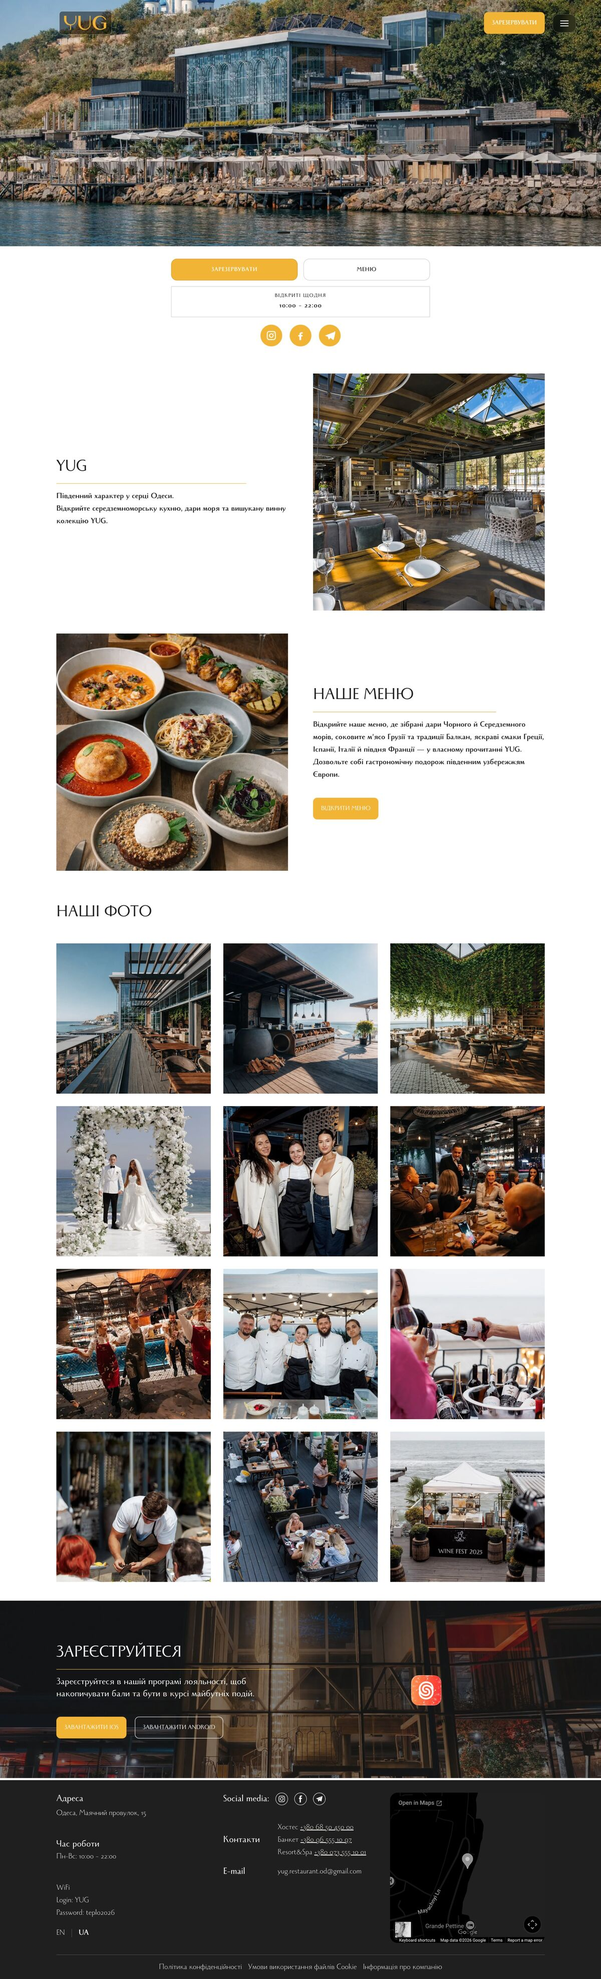
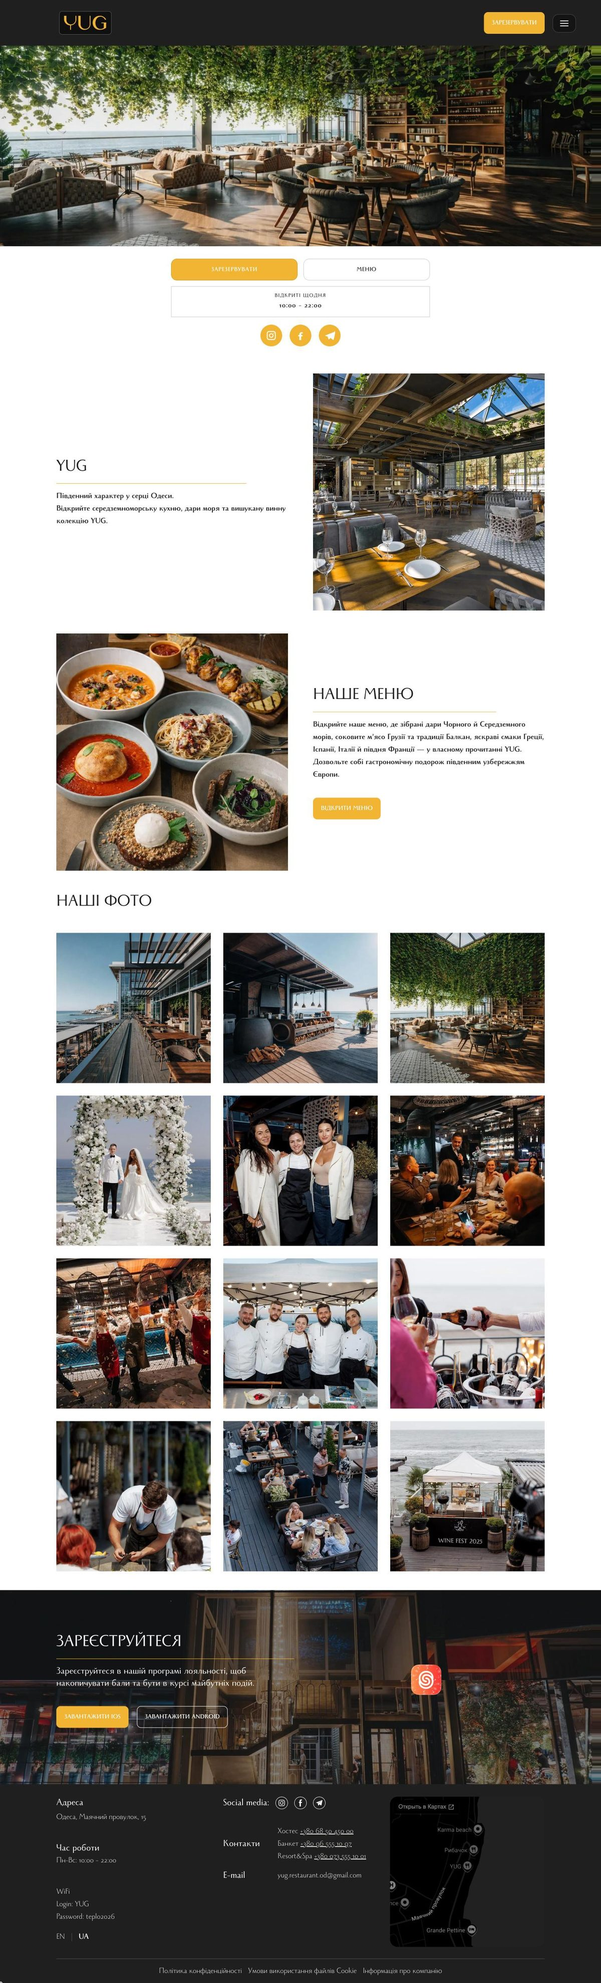
Showcase: YUG replaces DenimTrade, add Pikasso; faster hero (lower res, 30fps cap). Trigger deploy
Claude-Session: https://claude.ai/code/session_01J3C4phjuzzuodwm9RMiN1y

diff --git a/site/index.html b/site/index.html
@@ -44,7 +44,7 @@
     <link rel="preconnect" href="https://fonts.gstatic.com" crossorigin />
     <link href="https://fonts.googleapis.com/css2?family=Inter:wght@400;500;600;700;800&family=Bricolage+Grotesque:wght@500;600;700;800&family=IBM+Plex+Mono:wght@400;500;600;700&display=swap" rel="stylesheet" />
 
-    <link rel="stylesheet" href="/style.css?v=1793808271" />
+    <link rel="stylesheet" href="/style.css?v=1793810000" />
 
     <script type="application/ld+json">
     {
@@ -218,7 +218,7 @@
       <section class="lm" aria-label="Нам довіряють · кому ми робили сайти"><div class="lm__label">Нам довіряють · кому ми робили сайти</div><div class="lm__viewport"><div class="lm__track"><span class="lm-item">Odyah</span><span class="lm-item">Ambitna</span><span class="lm-item">Denim Trade</span><span class="lm-item">Sushi Opole</span><span class="lm-item">YUG</span><span class="lm-item">PsySoul</span><span class="lm-item">Personality First</span><span class="lm-item">Shargetech</span><span class="lm-item">Factory HOT</span><span class="lm-item">MHRTB</span><span class="lm-item">Ever-Breeze</span><span class="lm-item">AimGear</span><span class="lm-item">New Hope</span><span class="lm-item">Dr. Levina</span><span class="lm-item">BRACE</span><span class="lm-item">Gonchar Beauty</span><span class="lm-item">Pikasso</span><span class="lm-item">Autoservis Vesmír</span><span class="lm-item" aria-hidden="true">Odyah</span><span class="lm-item" aria-hidden="true">Ambitna</span><span class="lm-item" aria-hidden="true">Denim Trade</span><span class="lm-item" aria-hidden="true">Sushi Opole</span><span class="lm-item" aria-hidden="true">YUG</span><span class="lm-item" aria-hidden="true">PsySoul</span><span class="lm-item" aria-hidden="true">Personality First</span><span class="lm-item" aria-hidden="true">Shargetech</span><span class="lm-item" aria-hidden="true">Factory HOT</span><span class="lm-item" aria-hidden="true">MHRTB</span><span class="lm-item" aria-hidden="true">Ever-Breeze</span><span class="lm-item" aria-hidden="true">AimGear</span><span class="lm-item" aria-hidden="true">New Hope</span><span class="lm-item" aria-hidden="true">Dr. Levina</span><span class="lm-item" aria-hidden="true">BRACE</span><span class="lm-item" aria-hidden="true">Gonchar Beauty</span><span class="lm-item" aria-hidden="true">Pikasso</span><span class="lm-item" aria-hidden="true">Autoservis Vesmír</span></div></div></section>
 
       <section class="section sc-sec" aria-label="Наші роботи"><div class="container"><div class="hc-head"><div><div class="eyebrow">Портфоліо</div><h2>Наші проєкти</h2></div><a class="hc-all" href="/cases.html">Усі кейси →</a></div>
-<div class="sc" id="sc"><div class="sc-list"><button class="sc-item is-on" type="button" data-i="0"><i>01</i><span><b>autoservisvesmir.cz</b><em>Автосервіс · Чехія</em></span></button><button class="sc-item" type="button" data-i="1"><i>02</i><span><b>odyah.cz</b><em>Мода · Shopify</em></span></button><button class="sc-item" type="button" data-i="2"><i>03</i><span><b>ambitna.ua</b><em>Мода · Shopify</em></span></button><button class="sc-item" type="button" data-i="3"><i>04</i><span><b>sushiopole.pl</b><em>Ресторан · Польща</em></span></button><button class="sc-item" type="button" data-i="4"><i>05</i><span><b>mhrtb.com.ua</b><em>Освіта · Weblium</em></span></button><button class="sc-item" type="button" data-i="5"><i>06</i><span><b>denimtrade.com.ua</b><em>Виробництво · B2B</em></span></button></div><div class="sc-stage"><div class="sc-glow"></div><div class="sc-frame"><div class="sc-bar"><i></i><i></i><i></i><span id="scUrl">autoservisvesmir.cz</span></div><div class="sc-view"><a class="sc-shot is-on" data-i="0" href="https://autoservisvesmir.cz/" target="_blank" rel="noopener" tabindex="-1" aria-label="autoservisvesmir.cz"><img src="/images/cases/vesmir.jpg" alt="autoservisvesmir.cz" loading="lazy"></a><a class="sc-shot" data-i="1" href="https://odyah.cz/" target="_blank" rel="noopener" tabindex="-1" aria-label="odyah.cz"><img src="/images/cases/odyah.jpg" alt="odyah.cz" loading="lazy"></a><a class="sc-shot" data-i="2" href="https://ambitna.ua/" target="_blank" rel="noopener" tabindex="-1" aria-label="ambitna.ua"><img src="/images/cases/ambitna.jpg" alt="ambitna.ua" loading="lazy"></a><a class="sc-shot" data-i="3" href="https://sushiopole.pl/" target="_blank" rel="noopener" tabindex="-1" aria-label="sushiopole.pl"><img src="/images/cases/sushiopole.jpg" alt="sushiopole.pl" loading="lazy"></a><a class="sc-shot" data-i="4" href="https://mhrtb.com.ua/" target="_blank" rel="noopener" tabindex="-1" aria-label="mhrtb.com.ua"><img src="/images/cases/mhrtb.jpg" alt="mhrtb.com.ua" loading="lazy"></a><a class="sc-shot" data-i="5" href="https://denimtrade.com.ua/" target="_blank" rel="noopener" tabindex="-1" aria-label="denimtrade.com.ua"><img src="/images/cases/denimtrade.jpg" alt="denimtrade.com.ua" loading="lazy"></a></div></div><div class="sc-cap"><div class="sc-desc"><span class="sc-d is-on" data-i="0">Діагностика, калькулятор вартості, заявки.</span><span class="sc-d" data-i="1">Магазин одягу для чеського ринку.</span><span class="sc-d" data-i="2">Магазин з віртуальною примірочною.</span><span class="sc-d" data-i="3">Меню, доставка, швидке замовлення.</span><span class="sc-d" data-i="4">Сайт університету з калькулятором.</span><span class="sc-d" data-i="5">Каталог тканин і виробництво джинсів.</span></div><span class="sc-open">Відкрити сайт ↗</span></div></div></div><div class="scm"><div class="scm-track"><a class="scm-card" href="https://autoservisvesmir.cz/" target="_blank" rel="noopener"><span class="scm-img"><img src="/images/cases/vesmir.jpg" alt="autoservisvesmir.cz" loading="lazy"></span><span class="scm-meta"><b>autoservisvesmir.cz</b><em>Автосервіс · Чехія</em></span></a><a class="scm-card" href="https://odyah.cz/" target="_blank" rel="noopener"><span class="scm-img"><img src="/images/cases/odyah.jpg" alt="odyah.cz" loading="lazy"></span><span class="scm-meta"><b>odyah.cz</b><em>Мода · Shopify</em></span></a><a class="scm-card" href="https://ambitna.ua/" target="_blank" rel="noopener"><span class="scm-img"><img src="/images/cases/ambitna.jpg" alt="ambitna.ua" loading="lazy"></span><span class="scm-meta"><b>ambitna.ua</b><em>Мода · Shopify</em></span></a><a class="scm-card" href="https://sushiopole.pl/" target="_blank" rel="noopener"><span class="scm-img"><img src="/images/cases/sushiopole.jpg" alt="sushiopole.pl" loading="lazy"></span><span class="scm-meta"><b>sushiopole.pl</b><em>Ресторан · Польща</em></span></a><a class="scm-card" href="https://mhrtb.com.ua/" target="_blank" rel="noopener"><span class="scm-img"><img src="/images/cases/mhrtb.jpg" alt="mhrtb.com.ua" loading="lazy"></span><span class="scm-meta"><b>mhrtb.com.ua</b><em>Освіта · Weblium</em></span></a><a class="scm-card" href="https://denimtrade.com.ua/" target="_blank" rel="noopener"><span class="scm-img"><img src="/images/cases/denimtrade.jpg" alt="denimtrade.com.ua" loading="lazy"></span><span class="scm-meta"><b>denimtrade.com.ua</b><em>Виробництво · B2B</em></span></a></div></div></div></section>
+<div class="sc" id="sc"><div class="sc-list"><button class="sc-item is-on" type="button" data-i="0"><i>01</i><span><b>autoservisvesmir.cz</b><em>Автосервіс · Чехія</em></span></button><button class="sc-item" type="button" data-i="1"><i>02</i><span><b>odyah.cz</b><em>Мода · Shopify</em></span></button><button class="sc-item" type="button" data-i="2"><i>03</i><span><b>ambitna.ua</b><em>Мода · Shopify</em></span></button><button class="sc-item" type="button" data-i="3"><i>04</i><span><b>sushiopole.pl</b><em>Ресторан · Польща</em></span></button><button class="sc-item" type="button" data-i="4"><i>05</i><span><b>mhrtb.com.ua</b><em>Освіта · Weblium</em></span></button><button class="sc-item" type="button" data-i="5"><i>06</i><span><b>yugrestaurant.com</b><em>Ресторан · Одеса</em></span></button><button class="sc-item" type="button" data-i="6"><i>07</i><span><b>pikasso.com.ua</b><em>Аксесуари Apple · E-commerce</em></span></button></div><div class="sc-stage"><div class="sc-glow"></div><div class="sc-frame"><div class="sc-bar"><i></i><i></i><i></i><span id="scUrl">autoservisvesmir.cz</span></div><div class="sc-view"><a class="sc-shot is-on" data-i="0" href="https://autoservisvesmir.cz/" target="_blank" rel="noopener" tabindex="-1" aria-label="autoservisvesmir.cz"><img src="/images/cases/vesmir.jpg" alt="autoservisvesmir.cz" loading="lazy"></a><a class="sc-shot" data-i="1" href="https://odyah.cz/" target="_blank" rel="noopener" tabindex="-1" aria-label="odyah.cz"><img src="/images/cases/odyah.jpg" alt="odyah.cz" loading="lazy"></a><a class="sc-shot" data-i="2" href="https://ambitna.ua/" target="_blank" rel="noopener" tabindex="-1" aria-label="ambitna.ua"><img src="/images/cases/ambitna.jpg" alt="ambitna.ua" loading="lazy"></a><a class="sc-shot" data-i="3" href="https://sushiopole.pl/" target="_blank" rel="noopener" tabindex="-1" aria-label="sushiopole.pl"><img src="/images/cases/sushiopole.jpg" alt="sushiopole.pl" loading="lazy"></a><a class="sc-shot" data-i="4" href="https://mhrtb.com.ua/" target="_blank" rel="noopener" tabindex="-1" aria-label="mhrtb.com.ua"><img src="/images/cases/mhrtb.jpg" alt="mhrtb.com.ua" loading="lazy"></a><a class="sc-shot" data-i="5" href="https://yugrestaurant.com/" target="_blank" rel="noopener" tabindex="-1" aria-label="yugrestaurant.com"><img src="/images/cases/yug.jpg?v=2" alt="yugrestaurant.com" loading="lazy"></a><a class="sc-shot" data-i="6" href="https://pikasso.com.ua/ua/" target="_blank" rel="noopener" tabindex="-1" aria-label="pikasso.com.ua"><img src="/images/cases/pikasso.jpg" alt="pikasso.com.ua" loading="lazy"></a></div></div><div class="sc-cap"><div class="sc-desc"><span class="sc-d is-on" data-i="0">Діагностика, калькулятор вартості, заявки.</span><span class="sc-d" data-i="1">Магазин одягу для чеського ринку.</span><span class="sc-d" data-i="2">Магазин з віртуальною примірочною.</span><span class="sc-d" data-i="3">Меню, доставка, швидке замовлення.</span><span class="sc-d" data-i="4">Сайт університету з калькулятором.</span><span class="sc-d" data-i="5">Меню, фото, бронювання столика.</span><span class="sc-d" data-i="6">Редизайн магазину з трьома напрямками.</span></div><span class="sc-open">Відкрити сайт ↗</span></div></div></div><div class="scm"><div class="scm-track"><a class="scm-card" href="https://autoservisvesmir.cz/" target="_blank" rel="noopener"><span class="scm-img"><img src="/images/cases/vesmir.jpg" alt="autoservisvesmir.cz" loading="lazy"></span><span class="scm-meta"><b>autoservisvesmir.cz</b><em>Автосервіс · Чехія</em></span></a><a class="scm-card" href="https://odyah.cz/" target="_blank" rel="noopener"><span class="scm-img"><img src="/images/cases/odyah.jpg" alt="odyah.cz" loading="lazy"></span><span class="scm-meta"><b>odyah.cz</b><em>Мода · Shopify</em></span></a><a class="scm-card" href="https://ambitna.ua/" target="_blank" rel="noopener"><span class="scm-img"><img src="/images/cases/ambitna.jpg" alt="ambitna.ua" loading="lazy"></span><span class="scm-meta"><b>ambitna.ua</b><em>Мода · Shopify</em></span></a><a class="scm-card" href="https://sushiopole.pl/" target="_blank" rel="noopener"><span class="scm-img"><img src="/images/cases/sushiopole.jpg" alt="sushiopole.pl" loading="lazy"></span><span class="scm-meta"><b>sushiopole.pl</b><em>Ресторан · Польща</em></span></a><a class="scm-card" href="https://mhrtb.com.ua/" target="_blank" rel="noopener"><span class="scm-img"><img src="/images/cases/mhrtb.jpg" alt="mhrtb.com.ua" loading="lazy"></span><span class="scm-meta"><b>mhrtb.com.ua</b><em>Освіта · Weblium</em></span></a><a class="scm-card" href="https://yugrestaurant.com/" target="_blank" rel="noopener"><span class="scm-img"><img src="/images/cases/yug.jpg?v=2" alt="yugrestaurant.com" loading="lazy"></span><span class="scm-meta"><b>yugrestaurant.com</b><em>Ресторан · Одеса</em></span></a><a class="scm-card" href="https://pikasso.com.ua/ua/" target="_blank" rel="noopener"><span class="scm-img"><img src="/images/cases/pikasso.jpg" alt="pikasso.com.ua" loading="lazy"></span><span class="scm-meta"><b>pikasso.com.ua</b><em>Аксесуари Apple · E-commerce</em></span></a></div></div></div></section>
 
       <section class="section" aria-labelledby="home-services-title">
         <div class="container">
@@ -607,9 +607,9 @@
     </div>
     <script src="/script.js"></script>
 </div>
-<script src="/hero.js?v=1793808271" defer></script>
+<script src="/hero.js?v=1793810000" defer></script>
 <button class="theme-toggle" type="button" aria-label="Змінити тему" title="Змінити тему"><span class="ti-moon">☾</span><span class="ti-sun">☀</span></button>
-<script src="/showcase.js?v=1793808271" defer></script>
+<script src="/showcase.js?v=1793810000" defer></script>
 </body>
   </html>
   

diff --git a/site/en/index.html b/site/en/index.html
@@ -31,7 +31,7 @@
     <link rel="preconnect" href="https://fonts.googleapis.com" />
     <link rel="preconnect" href="https://fonts.gstatic.com" crossorigin />
     <link href="https://fonts.googleapis.com/css2?family=Inter:wght@400;500;600;700;800&family=Bricolage+Grotesque:wght@500;600;700;800&family=IBM+Plex+Mono:wght@400;500;600;700&display=swap" rel="stylesheet" />
-    <link rel="stylesheet" href="/style.css?v=1793808271" />
+    <link rel="stylesheet" href="/style.css?v=1793810000" />
 
     <script type="application/ld+json">
     {
@@ -198,7 +198,7 @@
       <section class="lm" aria-label="Trusted by · brands we built sites for"><div class="lm__label">Trusted by · brands we built sites for</div><div class="lm__viewport"><div class="lm__track"><span class="lm-item">Odyah</span><span class="lm-item">Ambitna</span><span class="lm-item">Denim Trade</span><span class="lm-item">Sushi Opole</span><span class="lm-item">YUG</span><span class="lm-item">PsySoul</span><span class="lm-item">Personality First</span><span class="lm-item">Shargetech</span><span class="lm-item">Factory HOT</span><span class="lm-item">MHRTB</span><span class="lm-item">Ever-Breeze</span><span class="lm-item">AimGear</span><span class="lm-item">New Hope</span><span class="lm-item">Dr. Levina</span><span class="lm-item">BRACE</span><span class="lm-item">Gonchar Beauty</span><span class="lm-item">Pikasso</span><span class="lm-item">Autoservis Vesmír</span><span class="lm-item" aria-hidden="true">Odyah</span><span class="lm-item" aria-hidden="true">Ambitna</span><span class="lm-item" aria-hidden="true">Denim Trade</span><span class="lm-item" aria-hidden="true">Sushi Opole</span><span class="lm-item" aria-hidden="true">YUG</span><span class="lm-item" aria-hidden="true">PsySoul</span><span class="lm-item" aria-hidden="true">Personality First</span><span class="lm-item" aria-hidden="true">Shargetech</span><span class="lm-item" aria-hidden="true">Factory HOT</span><span class="lm-item" aria-hidden="true">MHRTB</span><span class="lm-item" aria-hidden="true">Ever-Breeze</span><span class="lm-item" aria-hidden="true">AimGear</span><span class="lm-item" aria-hidden="true">New Hope</span><span class="lm-item" aria-hidden="true">Dr. Levina</span><span class="lm-item" aria-hidden="true">BRACE</span><span class="lm-item" aria-hidden="true">Gonchar Beauty</span><span class="lm-item" aria-hidden="true">Pikasso</span><span class="lm-item" aria-hidden="true">Autoservis Vesmír</span></div></div></section>
 
       <section class="section sc-sec" aria-label="Our work"><div class="container"><div class="hc-head"><div><div class="eyebrow">Portfolio</div><h2>Our projects</h2></div><a class="hc-all" href="/en/cases.html">All cases →</a></div>
-<div class="sc" id="sc"><div class="sc-list"><button class="sc-item is-on" type="button" data-i="0"><i>01</i><span><b>autoservisvesmir.cz</b><em>Car service · Czechia</em></span></button><button class="sc-item" type="button" data-i="1"><i>02</i><span><b>odyah.cz</b><em>Fashion · Shopify</em></span></button><button class="sc-item" type="button" data-i="2"><i>03</i><span><b>ambitna.ua</b><em>Fashion · Shopify</em></span></button><button class="sc-item" type="button" data-i="3"><i>04</i><span><b>sushiopole.pl</b><em>Restaurant · Poland</em></span></button><button class="sc-item" type="button" data-i="4"><i>05</i><span><b>mhrtb.com.ua</b><em>Education · Weblium</em></span></button><button class="sc-item" type="button" data-i="5"><i>06</i><span><b>denimtrade.com.ua</b><em>Manufacturing · B2B</em></span></button></div><div class="sc-stage"><div class="sc-glow"></div><div class="sc-frame"><div class="sc-bar"><i></i><i></i><i></i><span id="scUrl">autoservisvesmir.cz</span></div><div class="sc-view"><a class="sc-shot is-on" data-i="0" href="https://autoservisvesmir.cz/" target="_blank" rel="noopener" tabindex="-1" aria-label="autoservisvesmir.cz"><img src="/images/cases/vesmir.jpg" alt="autoservisvesmir.cz" loading="lazy"></a><a class="sc-shot" data-i="1" href="https://odyah.cz/" target="_blank" rel="noopener" tabindex="-1" aria-label="odyah.cz"><img src="/images/cases/odyah.jpg" alt="odyah.cz" loading="lazy"></a><a class="sc-shot" data-i="2" href="https://ambitna.ua/" target="_blank" rel="noopener" tabindex="-1" aria-label="ambitna.ua"><img src="/images/cases/ambitna.jpg" alt="ambitna.ua" loading="lazy"></a><a class="sc-shot" data-i="3" href="https://sushiopole.pl/" target="_blank" rel="noopener" tabindex="-1" aria-label="sushiopole.pl"><img src="/images/cases/sushiopole.jpg" alt="sushiopole.pl" loading="lazy"></a><a class="sc-shot" data-i="4" href="https://mhrtb.com.ua/" target="_blank" rel="noopener" tabindex="-1" aria-label="mhrtb.com.ua"><img src="/images/cases/mhrtb.jpg" alt="mhrtb.com.ua" loading="lazy"></a><a class="sc-shot" data-i="5" href="https://denimtrade.com.ua/" target="_blank" rel="noopener" tabindex="-1" aria-label="denimtrade.com.ua"><img src="/images/cases/denimtrade.jpg" alt="denimtrade.com.ua" loading="lazy"></a></div></div><div class="sc-cap"><div class="sc-desc"><span class="sc-d is-on" data-i="0">Diagnostics, price calculator, lead form.</span><span class="sc-d" data-i="1">Fashion store for the Czech market.</span><span class="sc-d" data-i="2">Store with a virtual try-on.</span><span class="sc-d" data-i="3">Menu, delivery, quick ordering.</span><span class="sc-d" data-i="4">University site with a calculator.</span><span class="sc-d" data-i="5">Fabric catalog and jeans production.</span></div><span class="sc-open">Open site ↗</span></div></div></div><div class="scm"><div class="scm-track"><a class="scm-card" href="https://autoservisvesmir.cz/" target="_blank" rel="noopener"><span class="scm-img"><img src="/images/cases/vesmir.jpg" alt="autoservisvesmir.cz" loading="lazy"></span><span class="scm-meta"><b>autoservisvesmir.cz</b><em>Car service · Czechia</em></span></a><a class="scm-card" href="https://odyah.cz/" target="_blank" rel="noopener"><span class="scm-img"><img src="/images/cases/odyah.jpg" alt="odyah.cz" loading="lazy"></span><span class="scm-meta"><b>odyah.cz</b><em>Fashion · Shopify</em></span></a><a class="scm-card" href="https://ambitna.ua/" target="_blank" rel="noopener"><span class="scm-img"><img src="/images/cases/ambitna.jpg" alt="ambitna.ua" loading="lazy"></span><span class="scm-meta"><b>ambitna.ua</b><em>Fashion · Shopify</em></span></a><a class="scm-card" href="https://sushiopole.pl/" target="_blank" rel="noopener"><span class="scm-img"><img src="/images/cases/sushiopole.jpg" alt="sushiopole.pl" loading="lazy"></span><span class="scm-meta"><b>sushiopole.pl</b><em>Restaurant · Poland</em></span></a><a class="scm-card" href="https://mhrtb.com.ua/" target="_blank" rel="noopener"><span class="scm-img"><img src="/images/cases/mhrtb.jpg" alt="mhrtb.com.ua" loading="lazy"></span><span class="scm-meta"><b>mhrtb.com.ua</b><em>Education · Weblium</em></span></a><a class="scm-card" href="https://denimtrade.com.ua/" target="_blank" rel="noopener"><span class="scm-img"><img src="/images/cases/denimtrade.jpg" alt="denimtrade.com.ua" loading="lazy"></span><span class="scm-meta"><b>denimtrade.com.ua</b><em>Manufacturing · B2B</em></span></a></div></div></div></section>
+<div class="sc" id="sc"><div class="sc-list"><button class="sc-item is-on" type="button" data-i="0"><i>01</i><span><b>autoservisvesmir.cz</b><em>Car service · Czechia</em></span></button><button class="sc-item" type="button" data-i="1"><i>02</i><span><b>odyah.cz</b><em>Fashion · Shopify</em></span></button><button class="sc-item" type="button" data-i="2"><i>03</i><span><b>ambitna.ua</b><em>Fashion · Shopify</em></span></button><button class="sc-item" type="button" data-i="3"><i>04</i><span><b>sushiopole.pl</b><em>Restaurant · Poland</em></span></button><button class="sc-item" type="button" data-i="4"><i>05</i><span><b>mhrtb.com.ua</b><em>Education · Weblium</em></span></button><button class="sc-item" type="button" data-i="5"><i>06</i><span><b>yugrestaurant.com</b><em>Restaurant · Odesa</em></span></button><button class="sc-item" type="button" data-i="6"><i>07</i><span><b>pikasso.com.ua</b><em>Apple accessories · E-commerce</em></span></button></div><div class="sc-stage"><div class="sc-glow"></div><div class="sc-frame"><div class="sc-bar"><i></i><i></i><i></i><span id="scUrl">autoservisvesmir.cz</span></div><div class="sc-view"><a class="sc-shot is-on" data-i="0" href="https://autoservisvesmir.cz/" target="_blank" rel="noopener" tabindex="-1" aria-label="autoservisvesmir.cz"><img src="/images/cases/vesmir.jpg" alt="autoservisvesmir.cz" loading="lazy"></a><a class="sc-shot" data-i="1" href="https://odyah.cz/" target="_blank" rel="noopener" tabindex="-1" aria-label="odyah.cz"><img src="/images/cases/odyah.jpg" alt="odyah.cz" loading="lazy"></a><a class="sc-shot" data-i="2" href="https://ambitna.ua/" target="_blank" rel="noopener" tabindex="-1" aria-label="ambitna.ua"><img src="/images/cases/ambitna.jpg" alt="ambitna.ua" loading="lazy"></a><a class="sc-shot" data-i="3" href="https://sushiopole.pl/" target="_blank" rel="noopener" tabindex="-1" aria-label="sushiopole.pl"><img src="/images/cases/sushiopole.jpg" alt="sushiopole.pl" loading="lazy"></a><a class="sc-shot" data-i="4" href="https://mhrtb.com.ua/" target="_blank" rel="noopener" tabindex="-1" aria-label="mhrtb.com.ua"><img src="/images/cases/mhrtb.jpg" alt="mhrtb.com.ua" loading="lazy"></a><a class="sc-shot" data-i="5" href="https://yugrestaurant.com/" target="_blank" rel="noopener" tabindex="-1" aria-label="yugrestaurant.com"><img src="/images/cases/yug.jpg?v=2" alt="yugrestaurant.com" loading="lazy"></a><a class="sc-shot" data-i="6" href="https://pikasso.com.ua/ua/" target="_blank" rel="noopener" tabindex="-1" aria-label="pikasso.com.ua"><img src="/images/cases/pikasso.jpg" alt="pikasso.com.ua" loading="lazy"></a></div></div><div class="sc-cap"><div class="sc-desc"><span class="sc-d is-on" data-i="0">Diagnostics, price calculator, lead form.</span><span class="sc-d" data-i="1">Fashion store for the Czech market.</span><span class="sc-d" data-i="2">Store with a virtual try-on.</span><span class="sc-d" data-i="3">Menu, delivery, quick ordering.</span><span class="sc-d" data-i="4">University site with a calculator.</span><span class="sc-d" data-i="5">Menu, photos, table booking.</span><span class="sc-d" data-i="6">Store redesign with three product lines.</span></div><span class="sc-open">Open site ↗</span></div></div></div><div class="scm"><div class="scm-track"><a class="scm-card" href="https://autoservisvesmir.cz/" target="_blank" rel="noopener"><span class="scm-img"><img src="/images/cases/vesmir.jpg" alt="autoservisvesmir.cz" loading="lazy"></span><span class="scm-meta"><b>autoservisvesmir.cz</b><em>Car service · Czechia</em></span></a><a class="scm-card" href="https://odyah.cz/" target="_blank" rel="noopener"><span class="scm-img"><img src="/images/cases/odyah.jpg" alt="odyah.cz" loading="lazy"></span><span class="scm-meta"><b>odyah.cz</b><em>Fashion · Shopify</em></span></a><a class="scm-card" href="https://ambitna.ua/" target="_blank" rel="noopener"><span class="scm-img"><img src="/images/cases/ambitna.jpg" alt="ambitna.ua" loading="lazy"></span><span class="scm-meta"><b>ambitna.ua</b><em>Fashion · Shopify</em></span></a><a class="scm-card" href="https://sushiopole.pl/" target="_blank" rel="noopener"><span class="scm-img"><img src="/images/cases/sushiopole.jpg" alt="sushiopole.pl" loading="lazy"></span><span class="scm-meta"><b>sushiopole.pl</b><em>Restaurant · Poland</em></span></a><a class="scm-card" href="https://mhrtb.com.ua/" target="_blank" rel="noopener"><span class="scm-img"><img src="/images/cases/mhrtb.jpg" alt="mhrtb.com.ua" loading="lazy"></span><span class="scm-meta"><b>mhrtb.com.ua</b><em>Education · Weblium</em></span></a><a class="scm-card" href="https://yugrestaurant.com/" target="_blank" rel="noopener"><span class="scm-img"><img src="/images/cases/yug.jpg?v=2" alt="yugrestaurant.com" loading="lazy"></span><span class="scm-meta"><b>yugrestaurant.com</b><em>Restaurant · Odesa</em></span></a><a class="scm-card" href="https://pikasso.com.ua/ua/" target="_blank" rel="noopener"><span class="scm-img"><img src="/images/cases/pikasso.jpg" alt="pikasso.com.ua" loading="lazy"></span><span class="scm-meta"><b>pikasso.com.ua</b><em>Apple accessories · E-commerce</em></span></a></div></div></div></section>
 
       <section class="section" aria-labelledby="home-services-title">
         <div class="container">
@@ -585,8 +585,8 @@
     </div>
     <script src="/script.js"></script>
 </div>
-<script src="/hero.js?v=1793808271" defer></script>
+<script src="/hero.js?v=1793810000" defer></script>
 <button class="theme-toggle" type="button" aria-label="Switch theme" title="Switch theme"><span class="ti-moon">☾</span><span class="ti-sun">☀</span></button>
-<script src="/showcase.js?v=1793808271" defer></script>
+<script src="/showcase.js?v=1793810000" defer></script>
 </body>
   </html>

diff --git a/site/hero.js b/site/hero.js
@@ -5,7 +5,7 @@
   if(!gl)return;
   var root=document.documentElement,run=true,vis=true,t0=performance.now();
   var reduce=window.matchMedia&&matchMedia('(prefers-reduced-motion: reduce)').matches;
-  var FS='precision highp float;uniform vec2 R;uniform float T;uniform float L;'+
+  var FS='precision mediump float;uniform vec2 R;uniform float T;uniform float L;'+
   'float hash(vec2 p){return fract(sin(dot(p,vec2(127.1,311.7)))*43758.5453);}'+
   'void main(){vec2 p=(gl_FragCoord.xy-.5*R)/R.y;float y0=R.x<R.y?-.35:-.26;'+
   'vec3 bgD=vec3(.067,.075,.098),bgL=vec3(.961,.949,.925);vec3 bg=mix(bgD,bgL,L);'+
@@ -26,15 +26,15 @@
   var b=gl.createBuffer();gl.bindBuffer(gl.ARRAY_BUFFER,b);gl.bufferData(gl.ARRAY_BUFFER,new Float32Array([-1,-1,1,-1,-1,1,1,1]),gl.STATIC_DRAW);
   var a=gl.getAttribLocation(pr,'a');gl.enableVertexAttribArray(a);gl.vertexAttribPointer(a,2,gl.FLOAT,false,0,0);
   var uR=gl.getUniformLocation(pr,'R'),uT=gl.getUniformLocation(pr,'T'),uL=gl.getUniformLocation(pr,'L');
-  function size(){var r=hero.getBoundingClientRect(),d=Math.min(window.devicePixelRatio||1,1.5);cv.width=Math.max(2,r.width*d);cv.height=Math.max(2,r.height*d);gl.viewport(0,0,cv.width,cv.height);draw(performance.now())}
+  function size(){var r=hero.getBoundingClientRect(),d=Math.min(window.devicePixelRatio||1,1);var m=Math.sqrt(900000/Math.max(1,r.width*r.height*d*d));if(m<1)d*=m;cv.width=Math.max(2,Math.round(r.width*d));cv.height=Math.max(2,Math.round(r.height*d));gl.viewport(0,0,cv.width,cv.height);draw(performance.now())}
   function draw(ts){
     gl.uniform2f(uR,cv.width,cv.height);gl.uniform1f(uT,reduce?2:(ts-t0)/1000);
     gl.uniform1f(uL,root.getAttribute('data-theme')==='light'?1:0);gl.drawArrays(gl.TRIANGLE_STRIP,0,4)}
-  function loop(ts){if(run&&vis&&!reduce)draw(ts);requestAnimationFrame(loop)}
+  var last=0;function loop(ts){if(run&&vis&&!reduce&&ts-last>30){last=ts;draw(ts)}requestAnimationFrame(loop)}
   if('IntersectionObserver' in window)new IntersectionObserver(function(e){vis=e[0].isIntersecting}).observe(hero);
   document.addEventListener('visibilitychange',function(){run=!document.hidden});
   new MutationObserver(function(){draw(performance.now())}).observe(root,{attributes:true,attributeFilter:['data-theme']});
-  window.addEventListener('resize',size);window.addEventListener('load',size);size();requestAnimationFrame(loop);
+  window.addEventListener('resize',size);size();requestAnimationFrame(loop);
 })();
 
 (function(){function s(){var h=document.querySelector('.site-header');if(h)document.documentElement.style.setProperty('--hh',(h.offsetHeight+parseFloat(getComputedStyle(h).marginTop||0)+(parseFloat(getComputedStyle(h).top)||0)-0)+'px')}s();addEventListener('resize',s);addEventListener('load',s)})();
